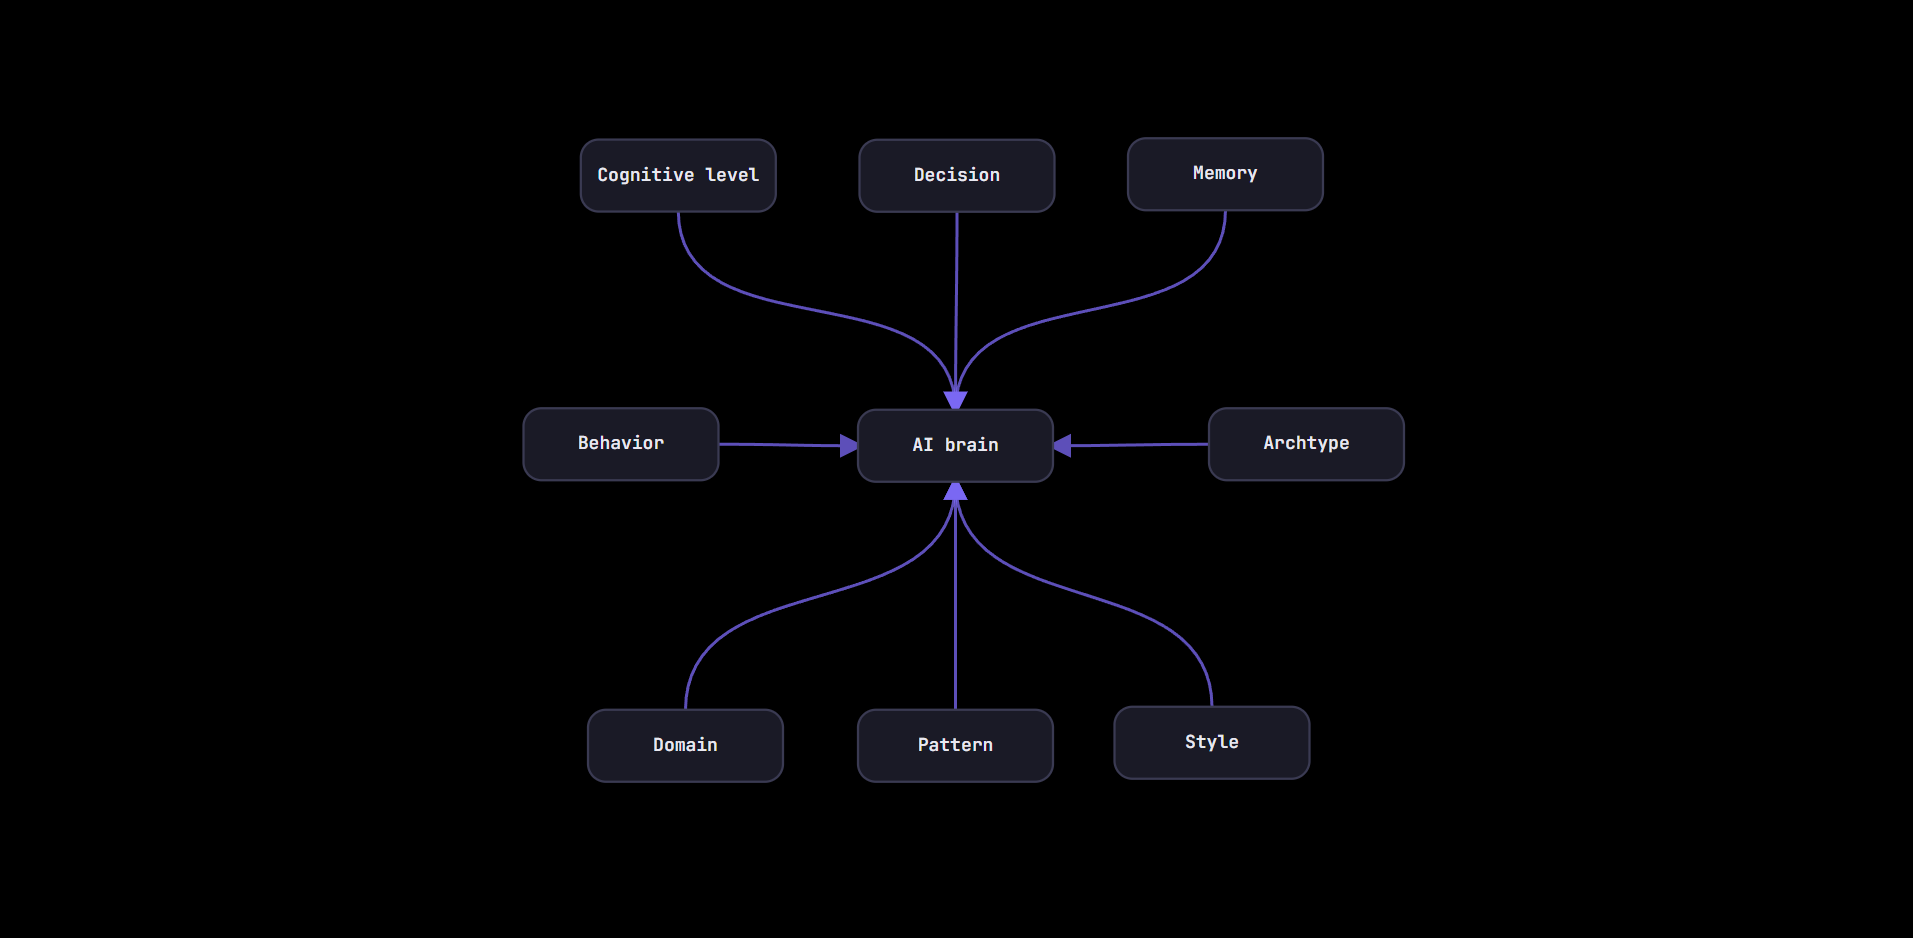
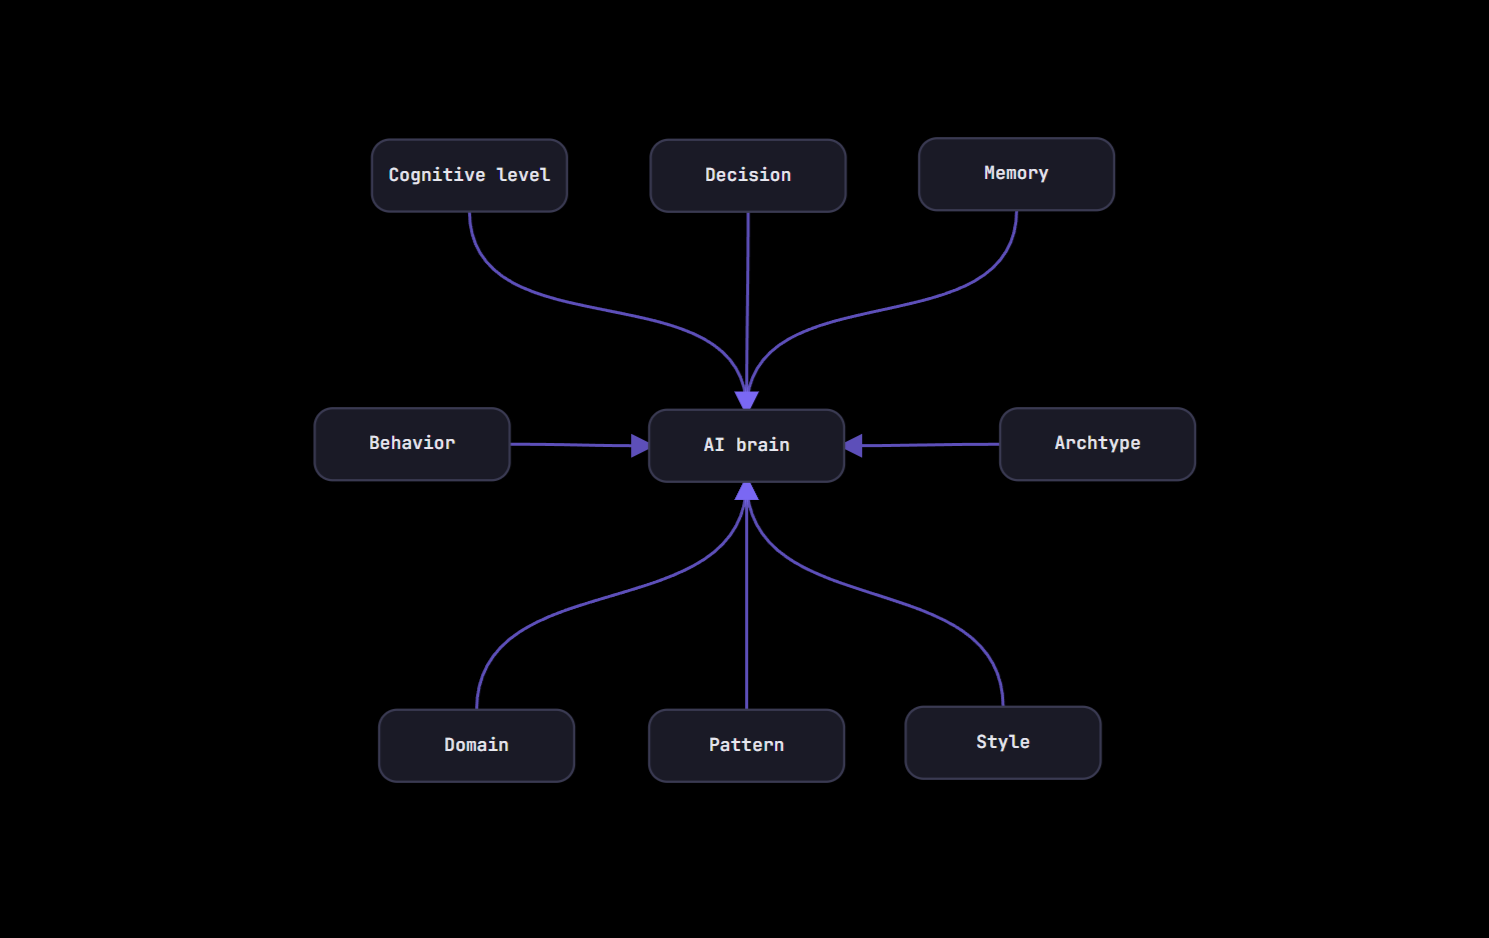
no more slop

diff --git a/src/pages/AboutUsPage.tsx b/src/pages/AboutUsPage.tsx
@@ -28,7 +28,7 @@ const AboutUsPage = () => {
       label: "Quest 01",
       title: "From Anxiety to Questions",
       description:
-        "It started when I (Nafis) studied machine learning and realized that knowledge would become cheaper and we would be replaced — then I asked myself \"Is learning worthless now?\".",
+        "It started when I (Nafis) studied machine learning and realized that knowledge would become cheaper and we would be replaced. Then I asked myself \"Is learning worthless now?\".",
       year: "may 2025",
     },
     {
@@ -42,7 +42,7 @@ const AboutUsPage = () => {
       label: "Quest 03",
       title: "The Idea Was Born",
       description:
-        "We found a real concept, engineered it to make it fun and easy — yet effective. We tested and experimented the prototype on classmates and students.",
+        "We found a real concept, engineered it to make it fun and easy, yet effective. We tested and experimented the prototype on classmates and students.",
       year: "october 2025",
     },
         {
@@ -65,7 +65,7 @@ const AboutUsPage = () => {
     {
       title: "Game Energy, Real Stakes",
       description:
-        "We borrow the best from games — feedback, pacing, progression — and wire it into real-world scenarios. No vanity XP, only signals of actual capability.",
+        "We borrow the best from games (feedback, pacing, progression) and wire it into real-world scenarios. No vanity XP, only signals of actual capability.",
       frame: "border-violet-400/25 shadow-[0_0_0_1px_rgba(167,139,250,0.08)]",
       wash: "from-violet-500/15 via-transparent to-transparent",
     },
@@ -201,12 +201,12 @@ const AboutUsPage = () => {
 
                 <div className="space-y-3 text-sm sm:text-[13px] leading-relaxed text-stone-200/95 relative">
                   <p>
-                    We kept losing motivation in traditional courses. Not because we hated learning — but because
+                    We kept losing motivation in traditional courses. Not because we hated learning, but because
                     nothing responded when we made a different choice.
                   </p>
                   <p>
                     So we asked: what if &quot;study&quot; felt more like queuing into a cooperative raid? Same effort,
-                    but with storylines, worlds, and a mentor that sees how you think — not just what you memorized.
+                    but with storylines, worlds, and a mentor that sees how you think, not just what you memorized.
                   </p>
                 </div>
               </div>
@@ -303,7 +303,7 @@ const AboutUsPage = () => {
           <div className="mb-10 max-w-2xl">
             <p className="text-[11px] uppercase tracking-[0.32em] text-stone-500 mb-2">DESIGN PRINCIPLES</p>
             <h2 className="text-xl sm:text-2xl md:text-3xl font-bold max-w-2xl font-serif tracking-tight text-stone-50">
-              The rules we use to make learning feel like a game — without losing the seriousness of your future.
+              The rules we use to make learning feel like a game, without losing the seriousness of your future.
             </h2>
           </div>
 
@@ -333,12 +333,12 @@ const AboutUsPage = () => {
             <div className="relative">
               <div className="mb-4">
                 <h2 className="text-lg sm:text-xl md:text-2xl font-semibold font-serif tracking-tight text-stone-50">
-                  This isn&apos;t our story alone — it&apos;s the arena you step into.
+                  This isn&apos;t our story alone: it&apos;s the arena you step into.
                 </h2>
               </div>
 
               <p className="text-sm sm:text-base text-stone-300/95 leading-relaxed mb-5">
-                We&apos;re still students — still learning, still iterating, still wiping on new boss mechanics. NovaX is
+                We&apos;re still students: still learning, still iterating, still wiping on new boss mechanics. NovaX is
                 our attempt to make those attempts visible, trackable, and shareable so more people can level up
                 together, faster.
               </p>
@@ -346,7 +346,7 @@ const AboutUsPage = () => {
               <div className="flex flex-col sm:flex-row gap-4 sm:gap-6 sm:items-center sm:justify-between">
                 <p className="text-xs sm:text-sm text-stone-400 max-w-md leading-relaxed">
                   If you&apos;re a student, educator, or just someone obsessed with better ways to think, this platform
-                  is a collaborative learning game but on a serious level — not a finished product. Bring your own story in.
+                  is a collaborative learning game but on a serious level, not a finished product. Bring your own story in.
                 </p>
                 <Button
                   asChild

diff --git a/src/pages/HowItWorksPage.tsx b/src/pages/HowItWorksPage.tsx
@@ -12,7 +12,7 @@ const HowItWorksPage = () => {
       label: "Step 01",
       title: "Enter the arena",
       description:
-        "The system tailors a world simulation that matches your level and field — from everyday decisions to high‑stakes, multi‑step scenarios.",
+        "The system tailors a world simulation that matches your level and field, from everyday decisions to high‑stakes, multi‑step scenarios.",
       bar: "bg-gradient-to-b from-amber-400 via-amber-500 to-orange-600",
       chip: "border-amber-500/35 bg-amber-950/40 text-amber-100/90",
     },
@@ -28,7 +28,7 @@ const HowItWorksPage = () => {
       label: "Step 03",
       title: "Reflect with a superhuman mentor",
       description:
-        "An AI mentor analyzes how you think — your patterns, trade‑offs, and blind spots — then follow up in real time.",
+        "An AI mentor analyzes how you think: your patterns, trade‑offs, and blind spots. It follows up in real time.",
       bar: "bg-gradient-to-b from-violet-400 via-fuchsia-500 to-rose-600",
       chip: "border-fuchsia-500/35 bg-fuchsia-950/30 text-fuchsia-100/90",
     },
@@ -69,7 +69,7 @@ const HowItWorksPage = () => {
       phase: "After a session",
       title: "You see the map of your thinking",
       description:
-        "NovaX turns your run into a visual decision map and short reflection, so improvement feels like upgrading a skill tree — not just finishing homework.",
+        "NovaX turns your run into a visual decision map and short reflection, so improvement feels like upgrading a skill tree, not just finishing homework.",
       items: [
         "Key moments highlighted",
         "Which capabilities improved (e.g., decision-making, communication, prioritization)",
@@ -173,7 +173,7 @@ const HowItWorksPage = () => {
               </h1>
               <p className="text-sm sm:text-base md:text-lg text-stone-300/95 leading-relaxed max-w-xl ml-4 sm:ml-5 pl-4 sm:pl-5 border-l border-stone-700/80">
                 NovaX is a problem-based learning arena wrapped in game energy. You enter a world, make real decisions,
-                get simulated consequences, and walk away with proof of how you think — not just a completed module.
+                get simulated consequences, and walk away with proof of how you think, not just a completed module.
               </p>
 
               <div className="mt-8 flex flex-col sm:flex-row gap-3 sm:gap-4 pl-4 sm:pl-5">
@@ -211,8 +211,8 @@ const HowItWorksPage = () => {
 
                 <div className="space-y-3 text-sm sm:text-[13px] leading-relaxed text-stone-200/95">
                   <p>
-                    A student enters a &quot;Market Crash&quot; arena. Every choice — who to trust, what to sacrifice,
-                    when to wait, how to manage — reshapes the world they&apos;re in.
+                    A student enters a &quot;Market Crash&quot; arena. Every choice (who to trust, what to sacrifice,
+                    when to wait, how to manage) reshapes the world they&apos;re in.
                   </p>
                   <p>
                     Behind the scenes, NovaX is mapping their decisions, risk tolerance, and reasoning patterns instead

diff --git a/src/pages/IntroductionPage.tsx b/src/pages/IntroductionPage.tsx
@@ -174,7 +174,7 @@ const IntroductionPage = () => {
                     when effectiveness meets fun
                   </h3>
                   <p className="mt-4 text-sm sm:text-base md:text-lg text-gray-600 leading-relaxed max-w-xl">
-                    PBL has proven to be effective, but tedious. We make it short, fast, and addictive by cutting it down to many steps, but it's still effective by making you reflect on the experience — like a game.
+                    PBL has proven to be effective, but tedious. We make it short, fast, and addictive by cutting it down to many steps, but it's still effective by making you reflect on the experience, like a game.
                   </p>
                 </div>
               </div>
@@ -187,7 +187,7 @@ const IntroductionPage = () => {
                     when complexity becomes intuitive
                   </h3>
                   <p className="mt-4 text-sm sm:text-base md:text-lg text-gray-600 leading-relaxed max-w-xl">
-                    Complex concepts are broken down into clear micro-steps. You're guided from confusion to understanding through examples, instant feedback, decision impacts, and exercises that feel natural — one screen, one simple step.
+                    Complex concepts are broken down into clear micro-steps. You're guided from confusion to understanding through examples, instant feedback, decision impacts, and exercises that feel natural: one screen, one simple step.
                   </p>
                 </div>
 
@@ -222,7 +222,7 @@ const IntroductionPage = () => {
                     when degrees lose to capability
                   </h3>
                   <p className="mt-4 text-sm sm:text-base md:text-lg text-gray-600 leading-relaxed max-w-xl">
-                    NovaX measures your problem-solving abilities — regardless of your unique approach. We accurately record every experience you have. No empty claims.
+                    NovaX measures your problem-solving abilities, regardless of your unique approach. We accurately record every experience you have. No empty claims.
                   </p>
                 </div>
               </div>
@@ -433,7 +433,7 @@ const IntroductionPage = () => {
                   A new way to prove your abilities
                 </h1>
                 <p className="text-sm sm:text-base md:text-xl text-gray-600 mb-4 sm:mb-6 md:mb-8 max-w-2xl">
-                  We’re reinventing proof of ability — real evidence of what you can solve.
+                  We’re reinventing proof of ability: real evidence of what you can solve.
                 </p>
               </div>
 
@@ -477,7 +477,7 @@ const IntroductionPage = () => {
                             GET REAL PROOF OF YOUR CAPABILITIES
                           </h2>
                           <p className="text-xs sm:text-sm md:text-lg text-gray-700 leading-relaxed max-w-2xl">
-                            Credentials that show what problems you solve, how you solve them, and every decision you make — not paper exam degrees.
+                            Credentials that show what problems you solve, how you solve them, and every decision you make, not paper exam degrees.
                           </p>
                         </div>
 

diff --git a/src/pages/TermsOfServicePage.tsx b/src/pages/TermsOfServicePage.tsx
@@ -142,8 +142,8 @@ const TermsOfServicePage = () => {
             <section>
               <h2 className="text-lg sm:text-xl font-semibold mb-2">7. Intellectual Property</h2>
               <p className="mb-2">
-                All content on NovaX — including arenas, simulations, storylines, UI, and AI mentor
-                behavior — is owned by NovaX (or its licensors) unless otherwise stated. You agree
+                All content on NovaX, including arenas, simulations, storylines, UI, and AI mentor
+                behavior, is owned by NovaX (or its licensors) unless otherwise stated. You agree
                 not to copy, redistribute, or commercially exploit these materials without
                 permission.
               </p>